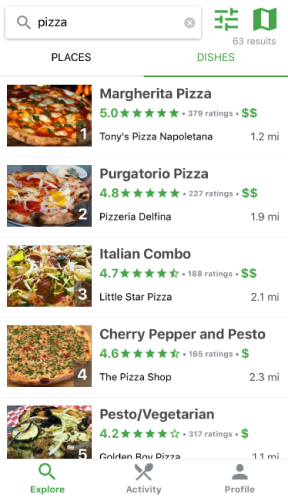
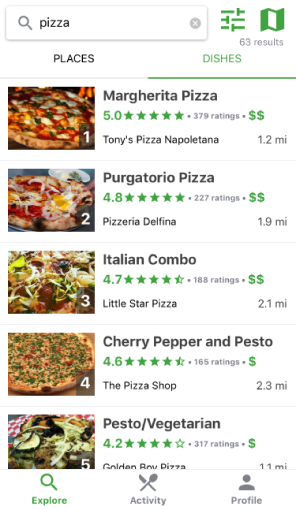
Styling intro section with new phone frame with shadow

diff --git a/src/components/Main/IntroSection.js b/src/components/Main/IntroSection.js
@@ -5,7 +5,7 @@ const IntroSection = () => (
     <div className="hero-body">
       <div className="container has-text-centered">
         <div className="columns is-vcentered">
-          <div className="column is-6 is-offset-1">
+          <div className="column">
             <div className="has-text-left">
               <h1 className="title is-3 is-spaced has-text-primary">
                 Explore, Discover, Eat and Share
@@ -24,16 +24,16 @@ const IntroSection = () => (
             </p>
           </div>
 
-          <div className="column is-5">
-            <div className="phone-frame-intro">
+          <div className="column">
+            <div className="phone-frame-intro phone-frame-shadow">
               <figure className="image">
                 <img
                   src="img/screenshots/explore-dish-list-pizza-small.png"
                   alt="WeEat phone screen"
                   style={{
-                    height: '498px',
-                    width: '288px',
-                    marginTop: '84px'
+                    height: '510px',
+                    width: '296px',
+                    marginTop: '61px'
                   }}
                 />
               </figure>

diff --git a/src/layouts/index.scss b/src/layouts/index.scss
@@ -11,9 +11,9 @@ h2.has-more-line-space {
 }
 
 .phone-frame-intro {
-  background-image: url('../../static/img/phone.png');
-  height: 664px;
-  width: 326;
+  background-image: url('../../static/img/phone-white.png');
+  height: 656px;
+  width: 320px;
   background-position: center center;
   background-repeat: no-repeat;
   background-size: contain;
@@ -28,6 +28,11 @@ h2.has-more-line-space {
   background-repeat: no-repeat;
   background-size: contain;
   margin: auto;
+}
+
+.phone-frame-shadow {
+  -webkit-filter: drop-shadow(0 0 15px rgba(0, 0, 0, 0.4));
+  filter: drop-shadow(0 0 15px rgba(0, 0, 0, 0.4));
 }
 
 //@import '~bulma/bulma';
